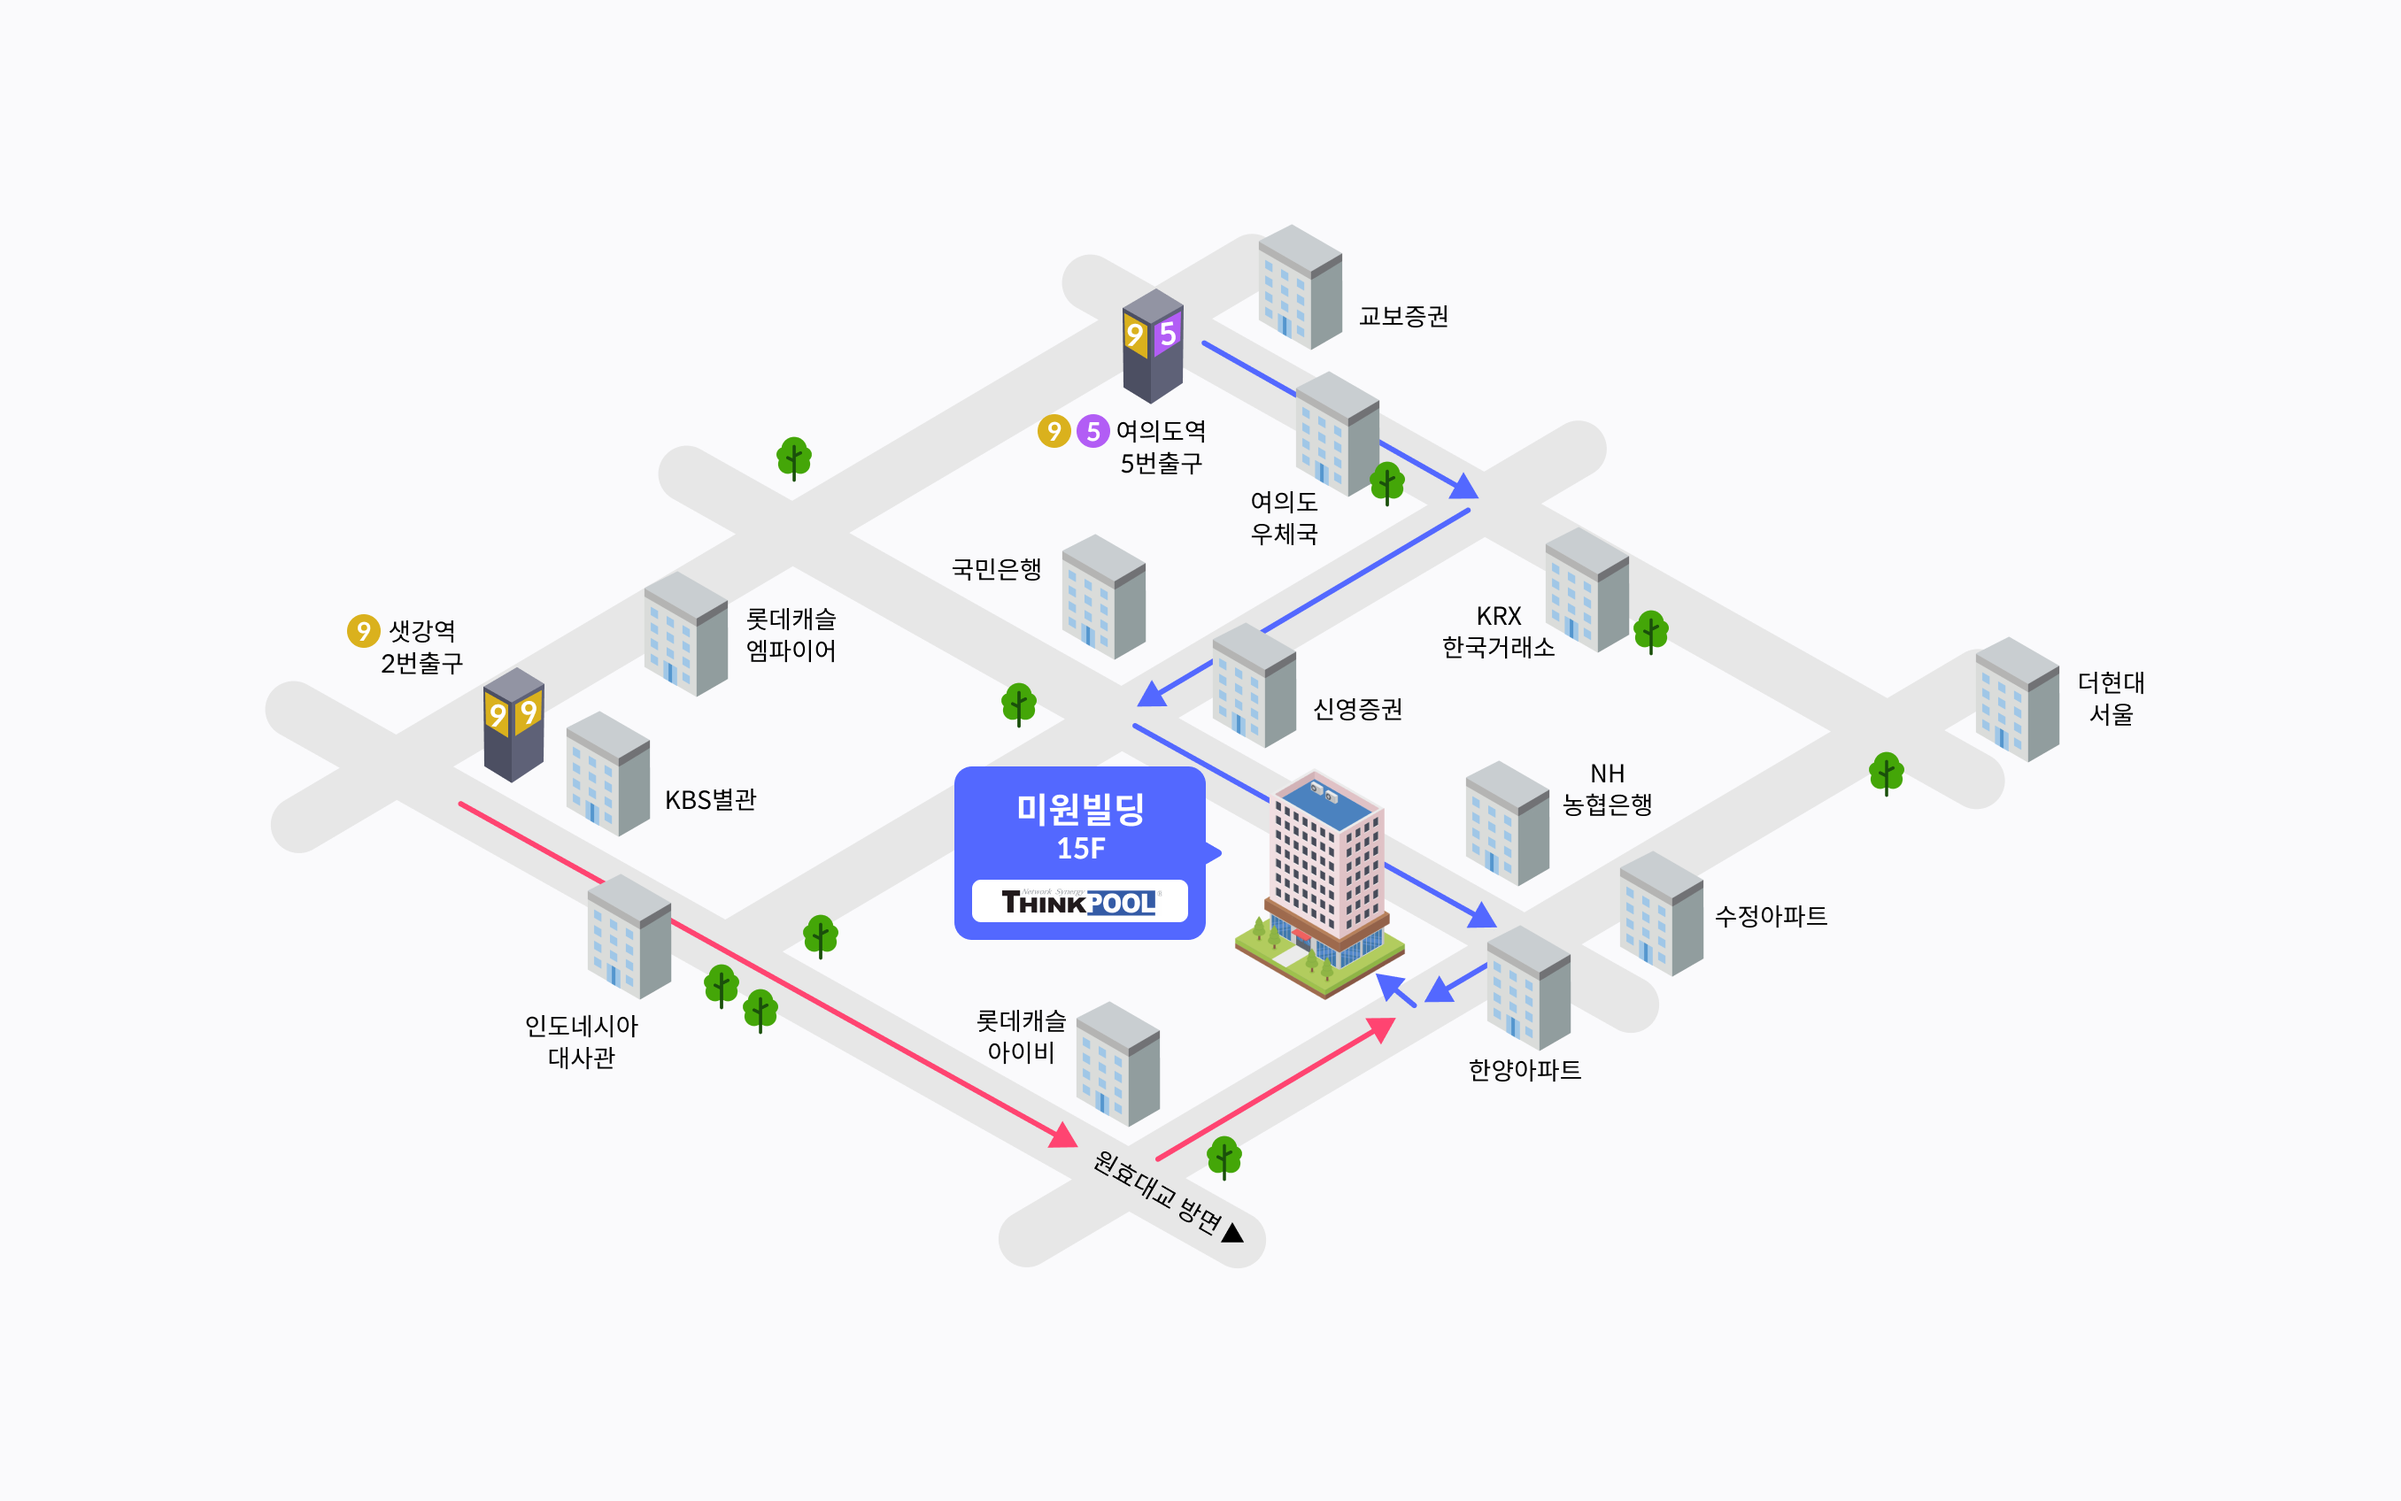
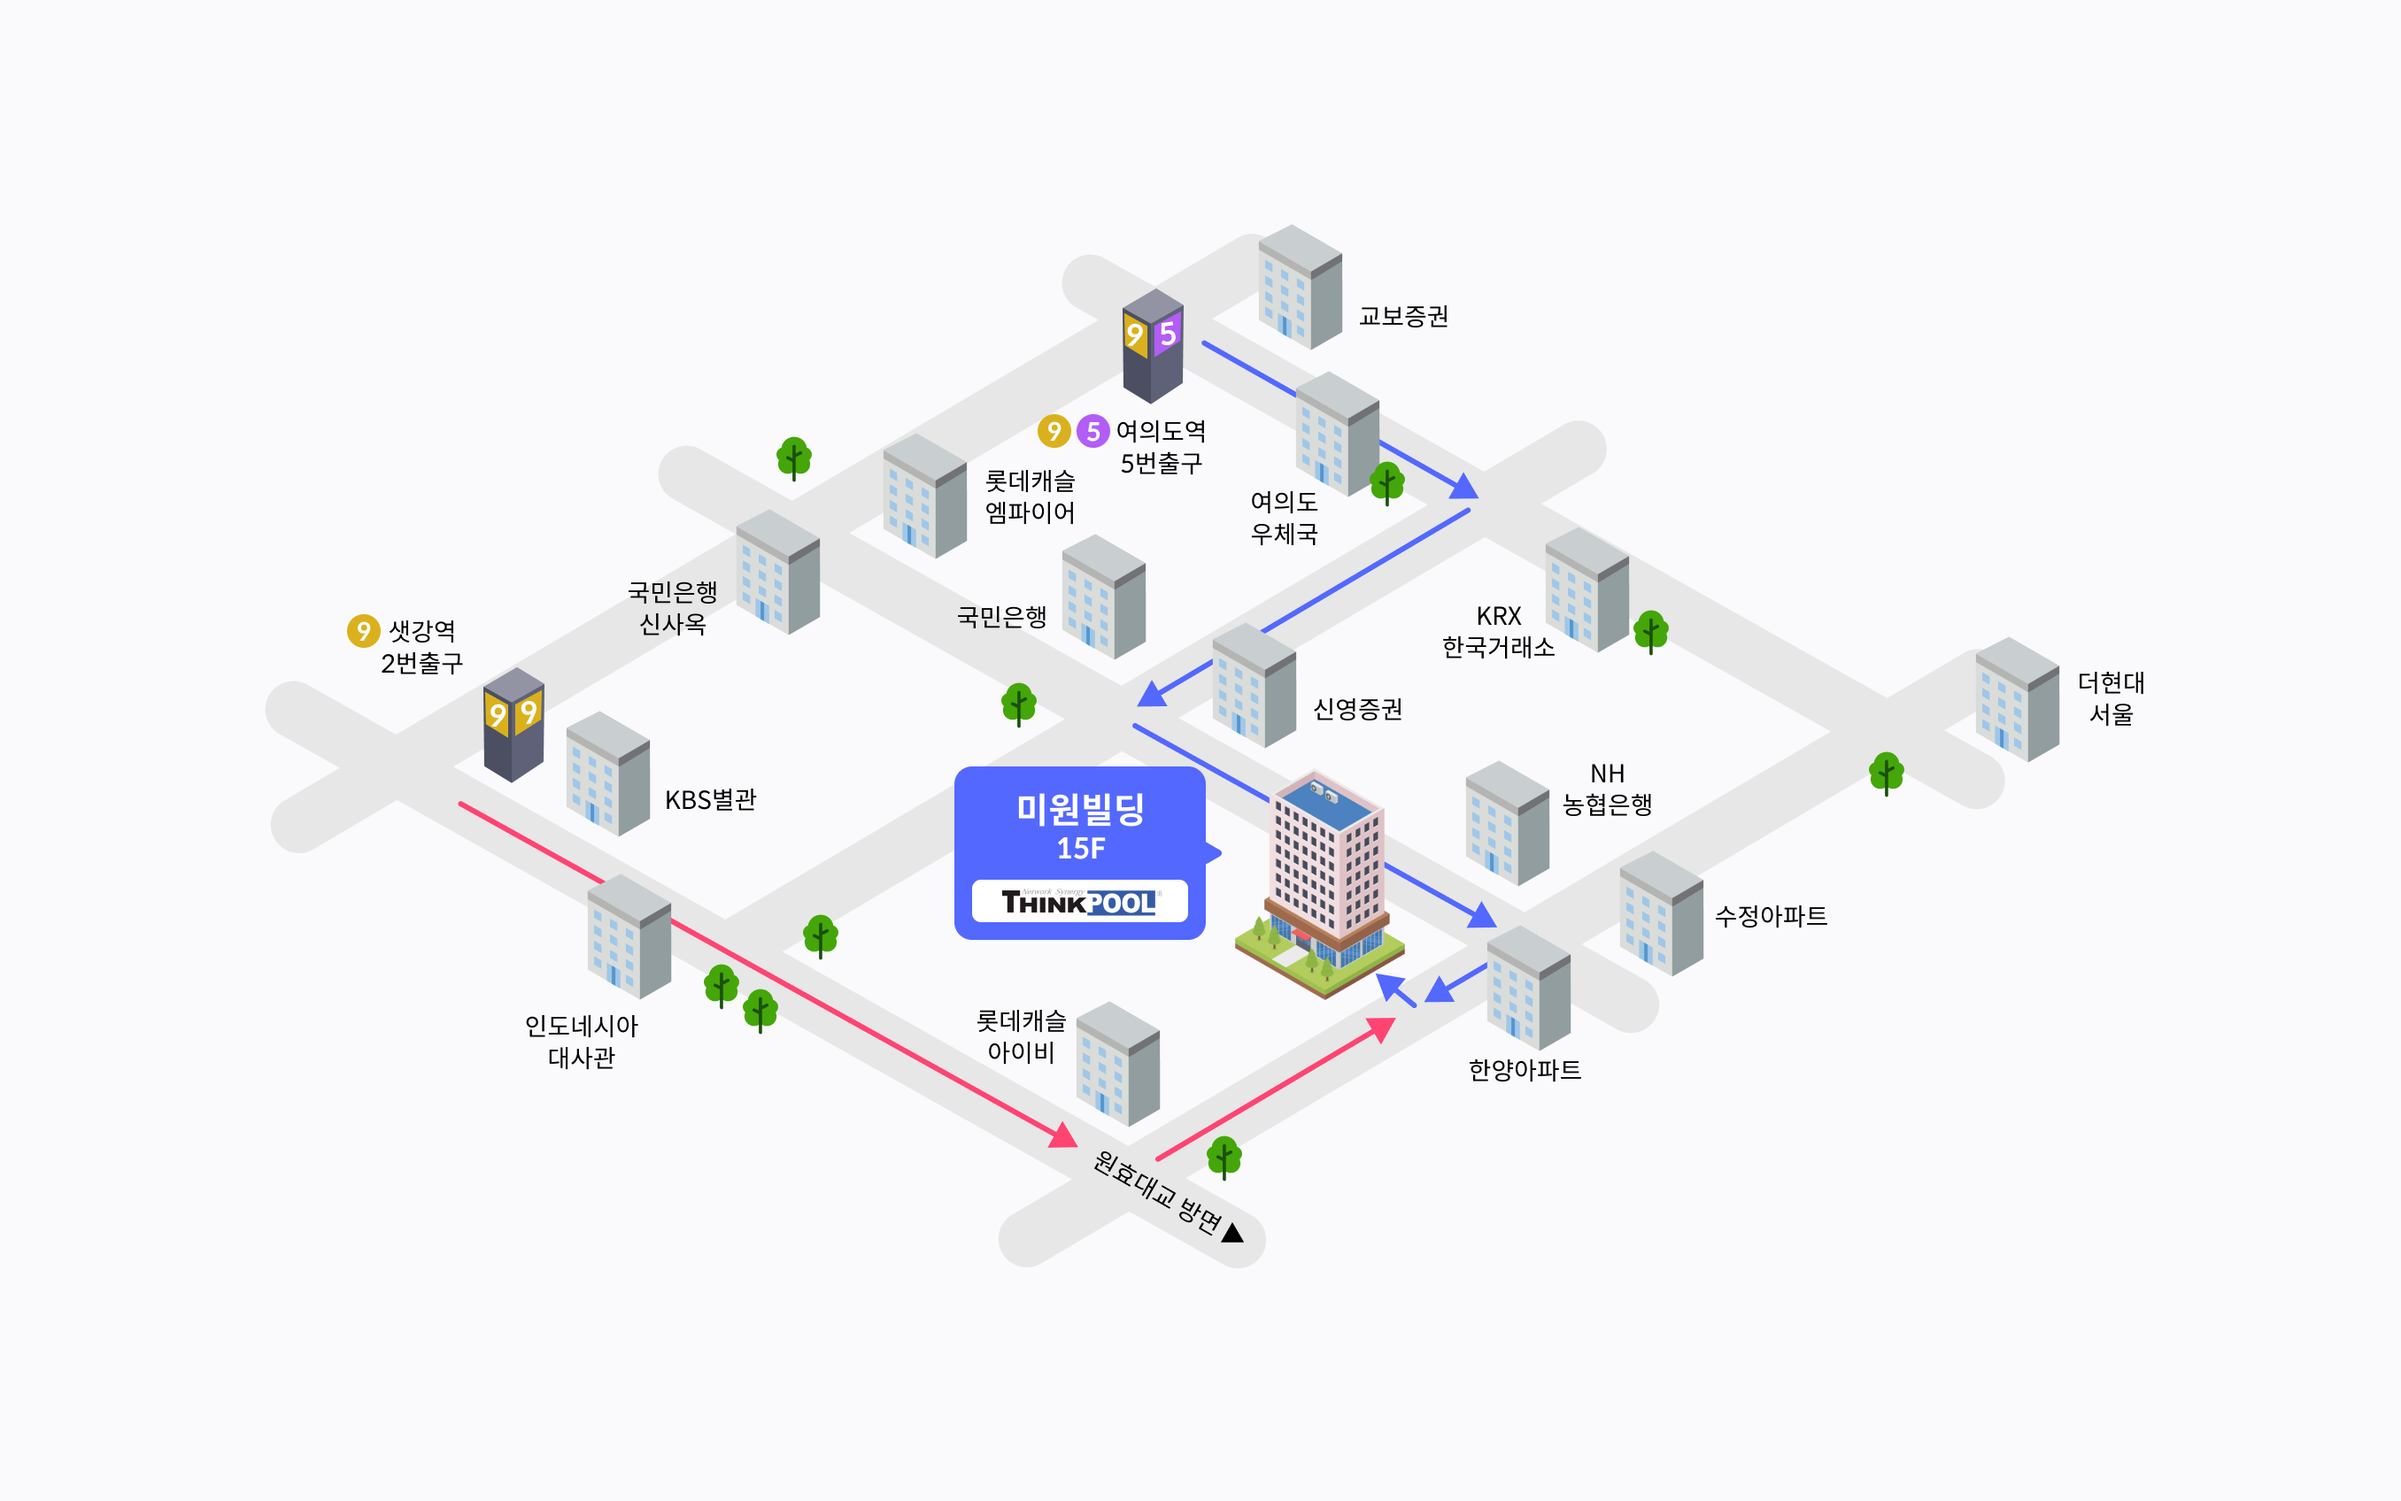
오시는길 지도 이미지 수정

Changed region(s): [[0.2478, 0.3438, 0.3407, 0.4688], [0.3717, 0.2812, 0.4646, 0.375], [0.4027, 0.375, 0.4336, 0.4375]]

diff --git a/components/about/ContactContent.vue b/components/about/ContactContent.vue
@@ -2,7 +2,8 @@
   <div class="ContactContent">
     <div class="categoryContent">
       <div class="map">
-        <img src="~/assets/img/map.png" alt="" width="1356">
+        <img src="~/assets/img/map.png" class="ko" alt="" width="1356">
+        <img src="~/assets/img/map_en.png" class="en" alt="" width="1356">
       </div>
       <div class="detail ko">
         지하철 5호선/9호선 여의도역하차 5번 출구(KRX한국거래소 방향)로 나오셔서 10분 거리 <br>
